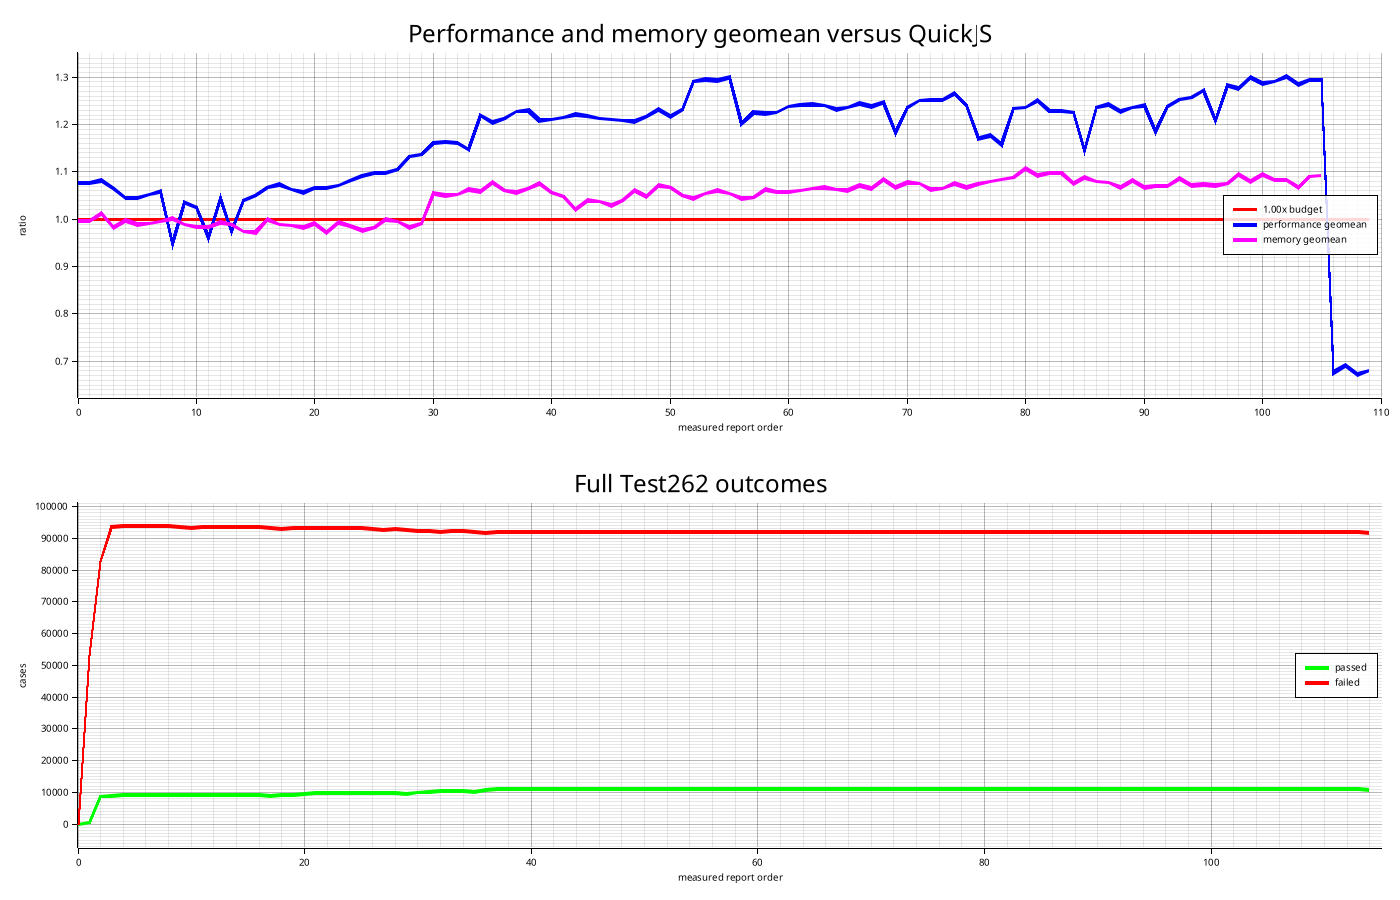
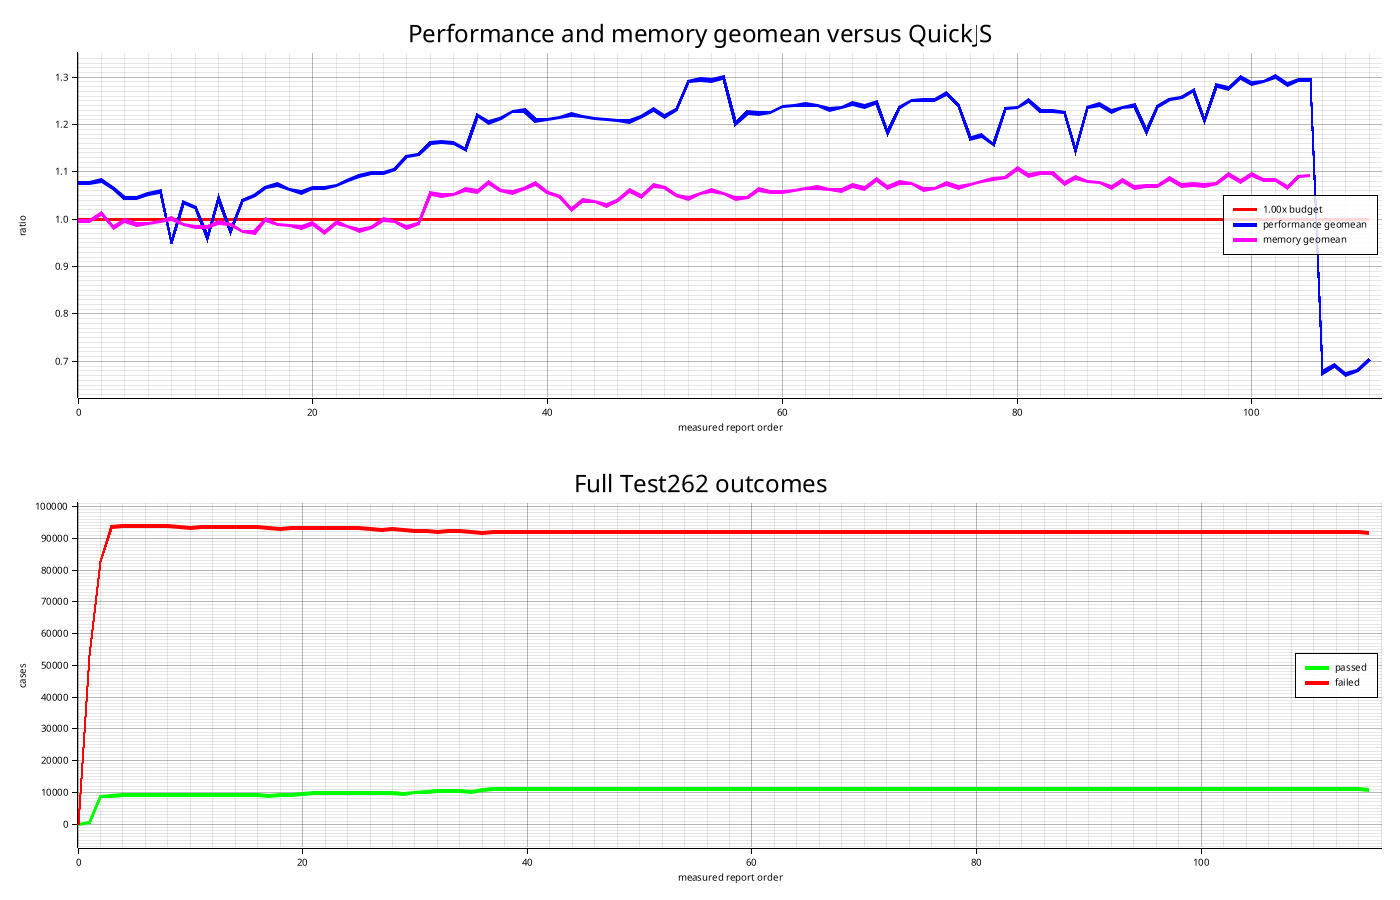
Update benchmark rollup for bytecode foundation
Regenerate benchmark rollup and summary chart after recording the bytecode foundation report, so the latest report is linked to the bytecode task context.

diff --git a/reports/benchmark-rollup.md b/reports/benchmark-rollup.md
@@ -16,9 +16,9 @@ Artifacts:
 
 Latest report:
 
-- `rsqjs-test-report-20260706T150245Z.md`
-- Task: Typed context-free property string results tranche: Stop context-free property and object fallback code from constructing temporary owned `Value::String` values for diagnostic text and virtual string characters.
-- Performance: 0.68x (34/63 >1.00x)
+- `rsqjs-test-report-20260706T161206Z.md`
+- Task: Bytecode VM foundation tranche: Put compiled execution on a generic bytecode interpreter behind the stable `CompiledScript` API before specializing hot instructions.
+- Performance: 0.70x (37/63 >1.00x)
 - Memory: - (0/63 >1.00x)
 - Full Test262: 10872 passed / 91706 failed (10.60%)
 
@@ -192,4 +192,5 @@ Latest report:
 | `20260706T135425Z` `c6353f8` Cached binding before atom lookup tranche: Move repeated proven binding hits closer to bytecode-ready direct slot operands by avoiding static-name atom lookup when a cached runtime location is already valid. | 0.68x (36/63 >1.00x) | - (0/63 >1.00x) | 10872 passed / 91706 failed (10.60%) |
 | `20260706T141931Z` `21b3f7e` Computed property access-site cache tranche: Extend checked per-occurrence property cache slots from static member reads and writes into non-literal computed property reads and writes without changing array index semantics. | 0.69x (38/63 >1.00x) | - (0/63 >1.00x) | 10872 passed / 91706 failed (10.60%) |
 | `20260706T144425Z` `301b8f6` Script-local string literal constants tranche: Move parser-known string and template literals out of owned `Value::String` AST nodes and into script-local constants before broader compact-value work. | 0.67x (35/63 >1.00x) | - (0/63 >1.00x) | 10872 passed / 91706 failed (10.60%) |
-| `20260706T150245Z` Typed context-free property string results tranche: Stop context-free property and object fallback code from constructing temporary owned `Value::String` values for diagnostic text and virtual string characters. | 0.68x (34/63 >1.00x) | - (0/63 >1.00x) | 10872 passed / 91706 failed (10.60%) |
+| `20260706T150245Z` `78fd866` Typed context-free property string results tranche: Stop context-free property and object fallback code from constructing temporary owned `Value::String` values for diagnostic text and virtual string characters. | 0.68x (34/63 >1.00x) | - (0/63 >1.00x) | 10872 passed / 91706 failed (10.60%) |
+| `20260706T161206Z` `241fa0f` Bytecode VM foundation tranche: Put compiled execution on a generic bytecode interpreter behind the stable `CompiledScript` API before specializing hot instructions. | 0.70x (37/63 >1.00x) | - (0/63 >1.00x) | 10872 passed / 91706 failed (10.60%) |